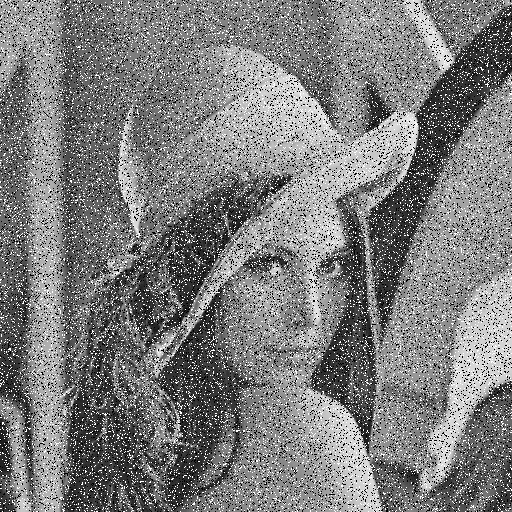
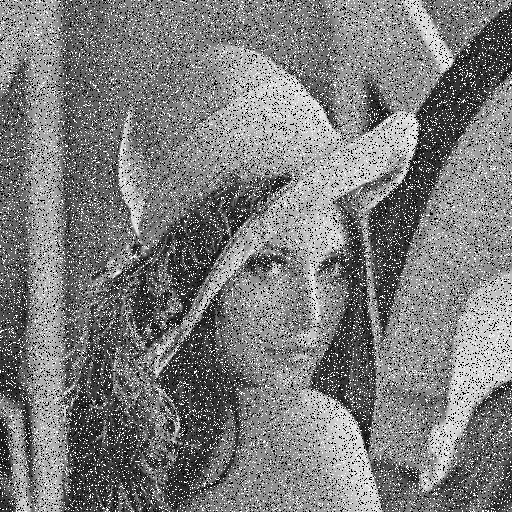
Finished CV HW8, do report tomorrow

diff --git a/HW8/utils.py b/HW8/utils.py
@@ -1,0 +1,50 @@
+#!/usr/bin/env python
+# coding: utf-8
+# NTU CSIE, Computer Vision HW8 utils, R08922024, Alfons Hwu
+import numpy as np
+
+####### dilation ######
+def dilation(a, b):
+    ra, ca = a.shape # original image
+    res = np.zeros(a.shape, dtype = 'int32')
+    
+    for ai in range(ra):
+        for aj in range(ca):
+                
+                max_value = 0
+                for b_each in b:
+                    bi, bj = b_each
+                    if  ai + bi >= 0 and ai + bi < ra and aj + bj >= 0 and aj + bj < ca: 
+                        # extend the value
+                        max_value = max(max_value, a[ai + bi, aj + bj])
+                
+                res[ai, aj] = max_value 
+                        
+    return res 
+
+####### erosion #######
+def erosion(a, b):
+    ra, ca = a.shape # original image
+    res = np.zeros(a.shape, dtype = 'int32')
+    
+    for ai in range(ra):
+        for aj in range(ca):
+                
+                min_value = 0x100
+                for b_each in b:
+                    bi, bj = b_each
+                    if  ai + bi >= 0 and ai + bi < ra                     and aj + bj >= 0 and aj + bj < ca: 
+                        # extend the value
+                        min_value = min(min_value, a[ai + bi, aj + bj])
+                    
+                res[ai, aj] = min_value
+    
+    return res 
+
+####### opening #######
+def opening(a, b):
+    return dilation(erosion(a, b), b)
+
+####### closing #######
+def closing(a, b):
+    return erosion(dilation(a, b), b)
